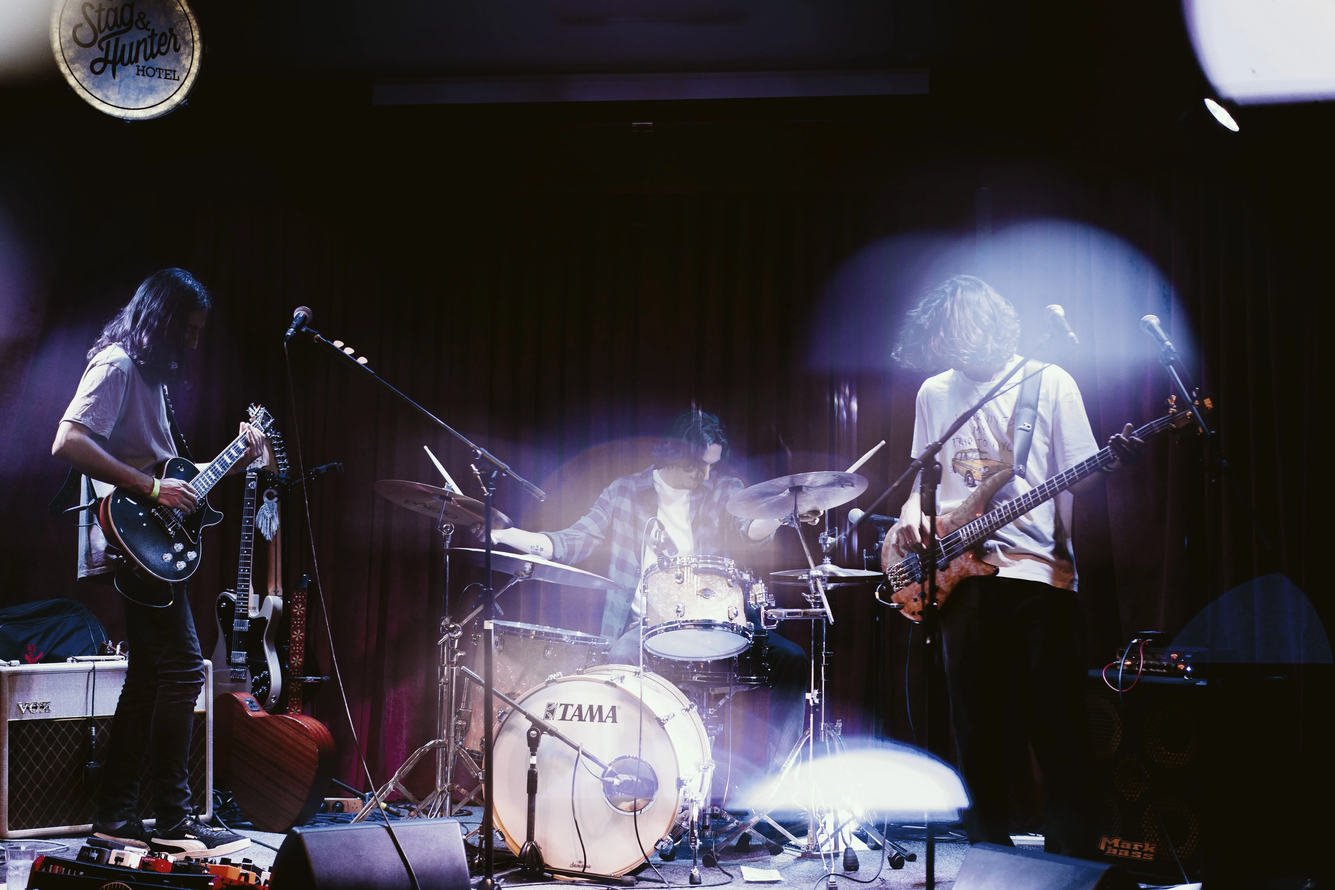
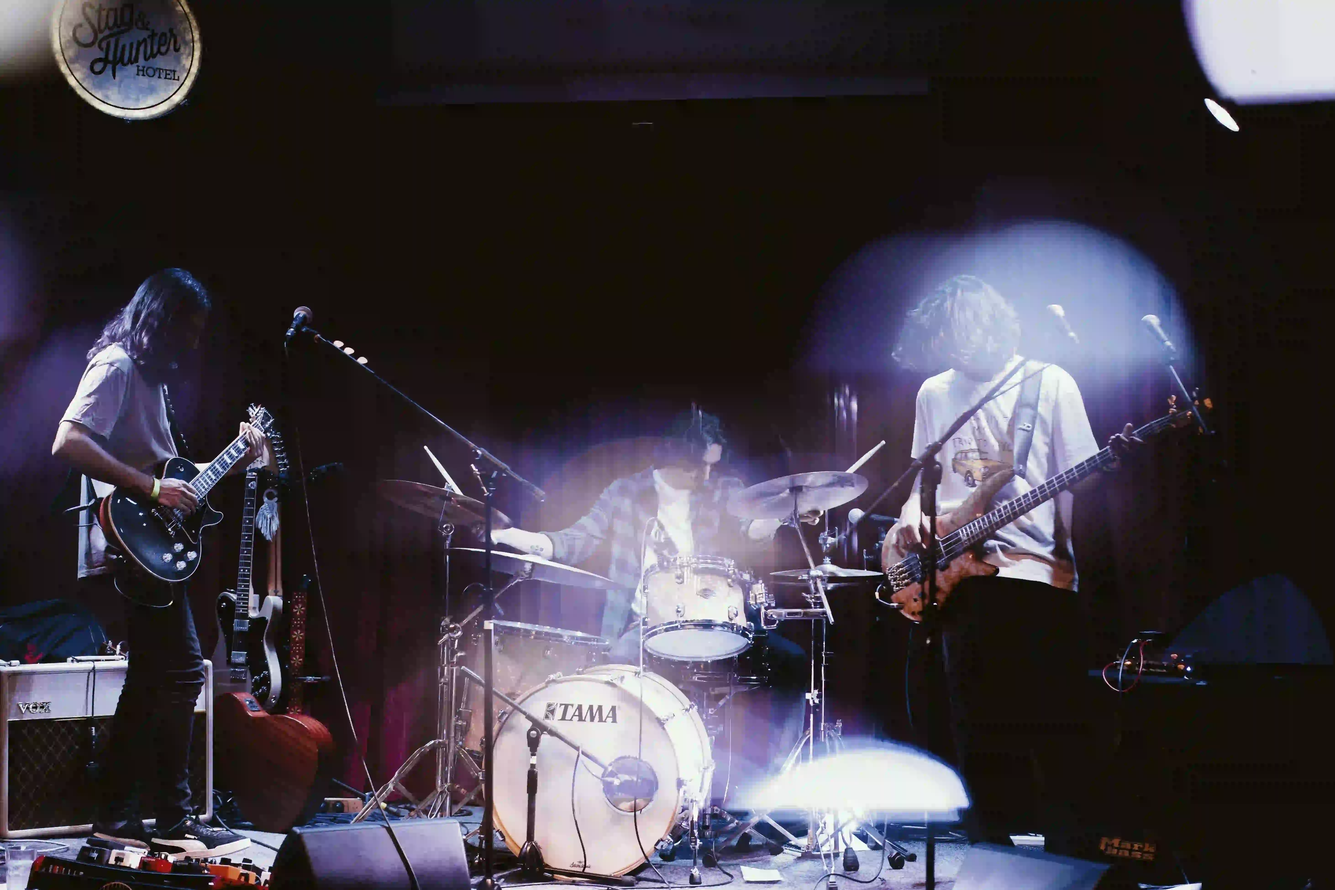
compress and remove photos

diff --git a/snowfishapp/templates/photos.html b/snowfishapp/templates/photos.html
@@ -63,9 +63,6 @@
             <div class="carousel-item">
               <img src="{% static 'layout/img/gallery/SPG-2023 (13).webp' %}" alt="Snowfish 2023" class="d-block">
             </div>
-            <div class="carousel-item">
-              <img src="{% static 'layout/img/gallery/SPG-2023 (14).webp' %}" alt="Snowfish 2023" class="d-block">
-            </div>
 
           </div>
           <button class="carousel-control-prev" type="button" data-bs-target="#carousel-2023" data-bs-slide="prev">
